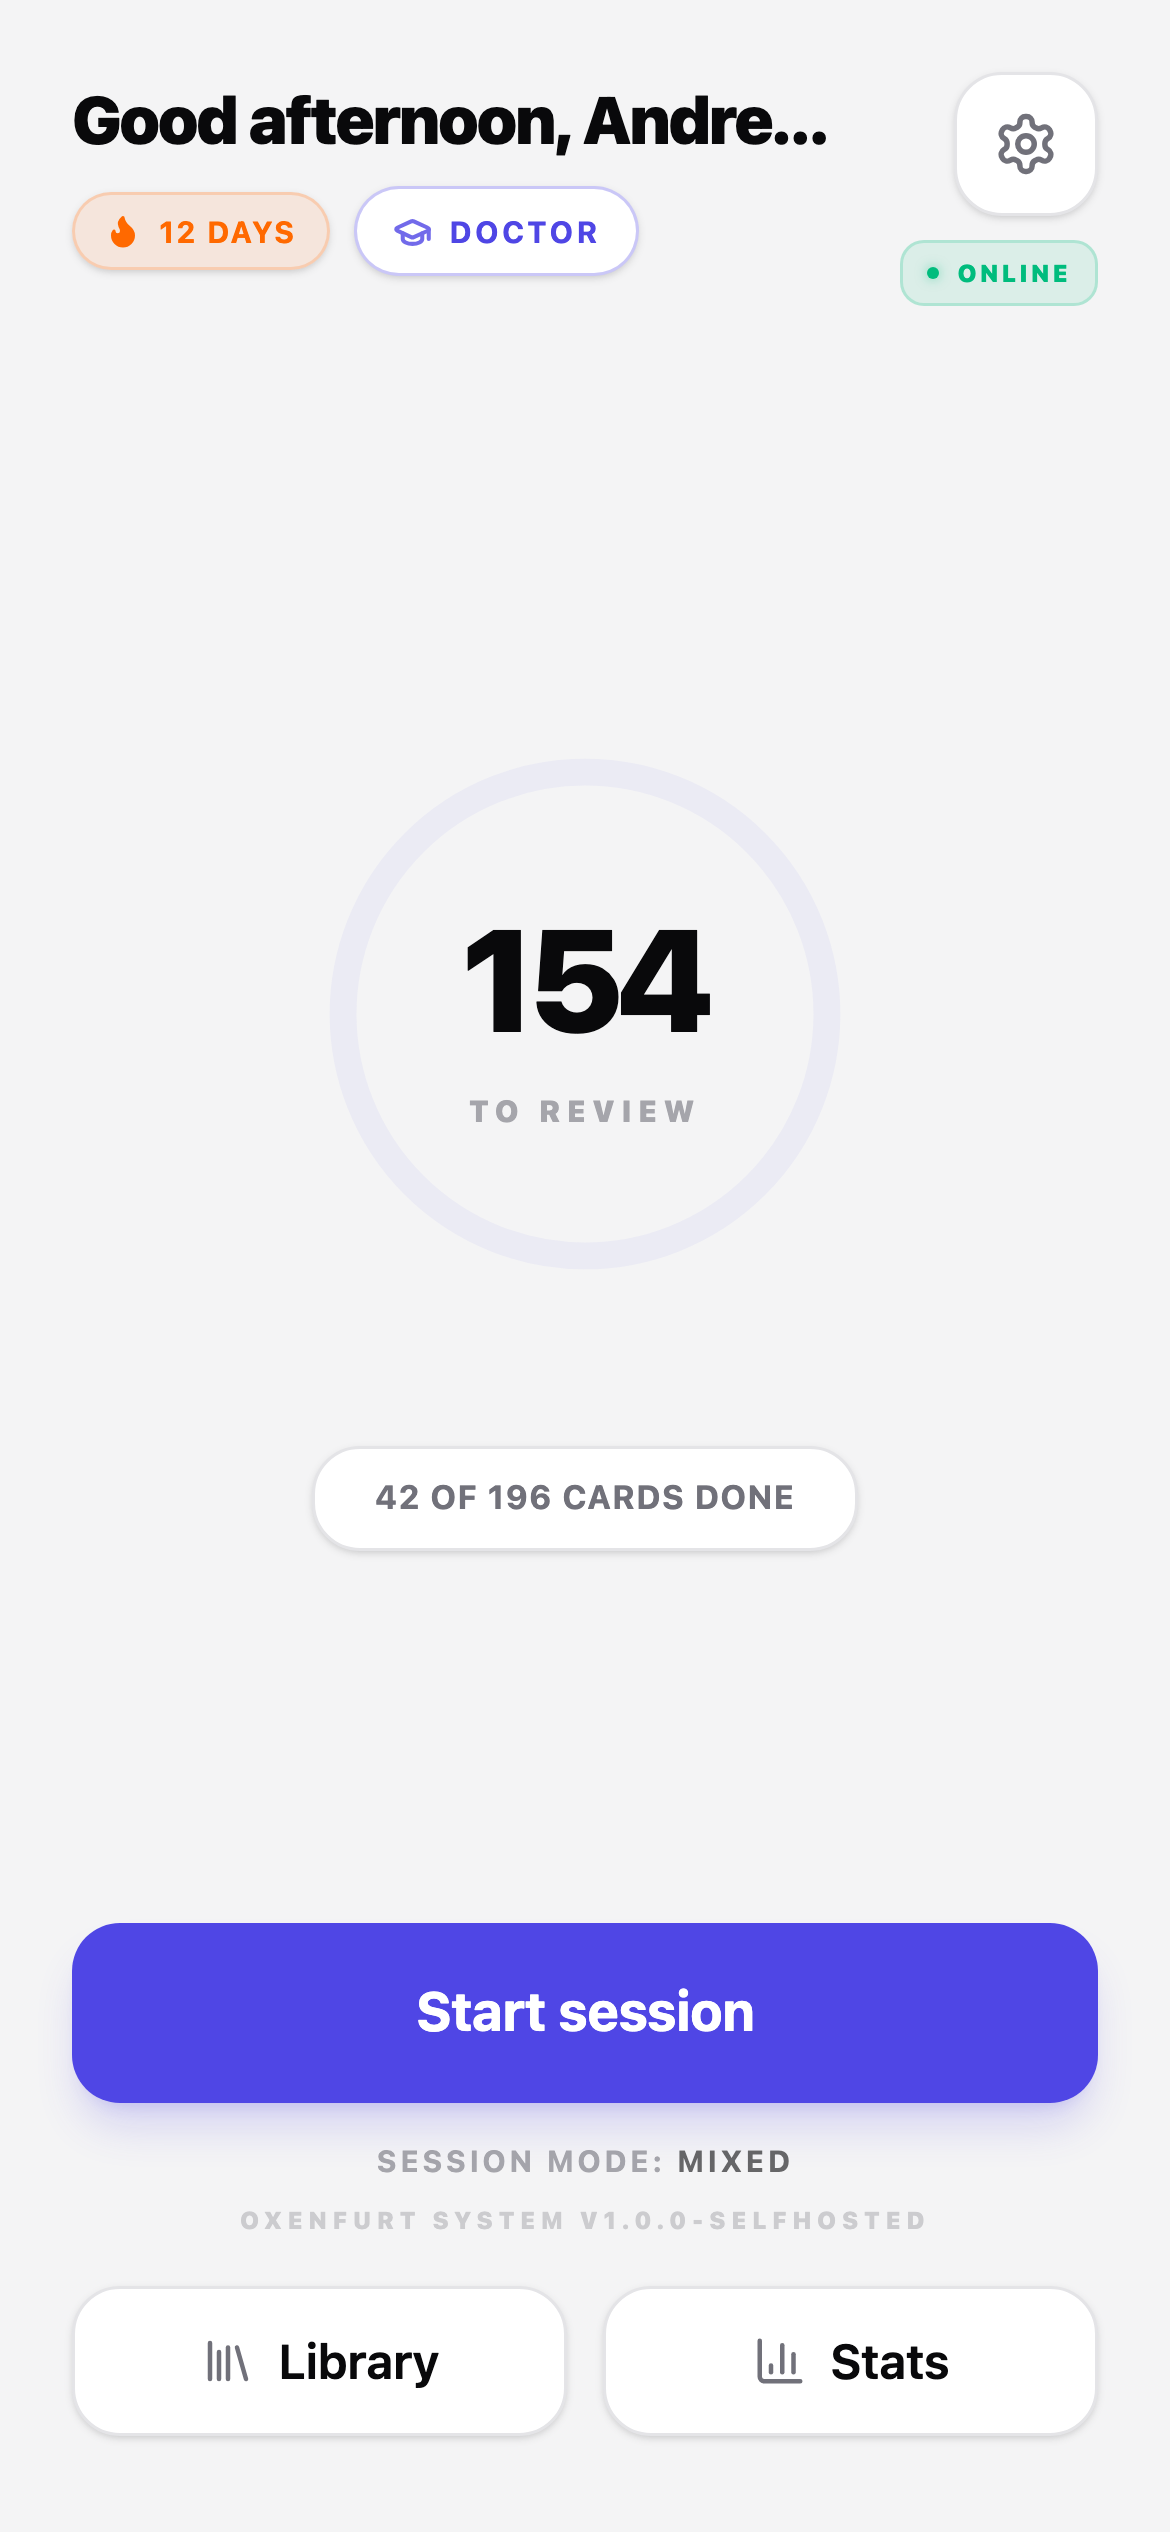
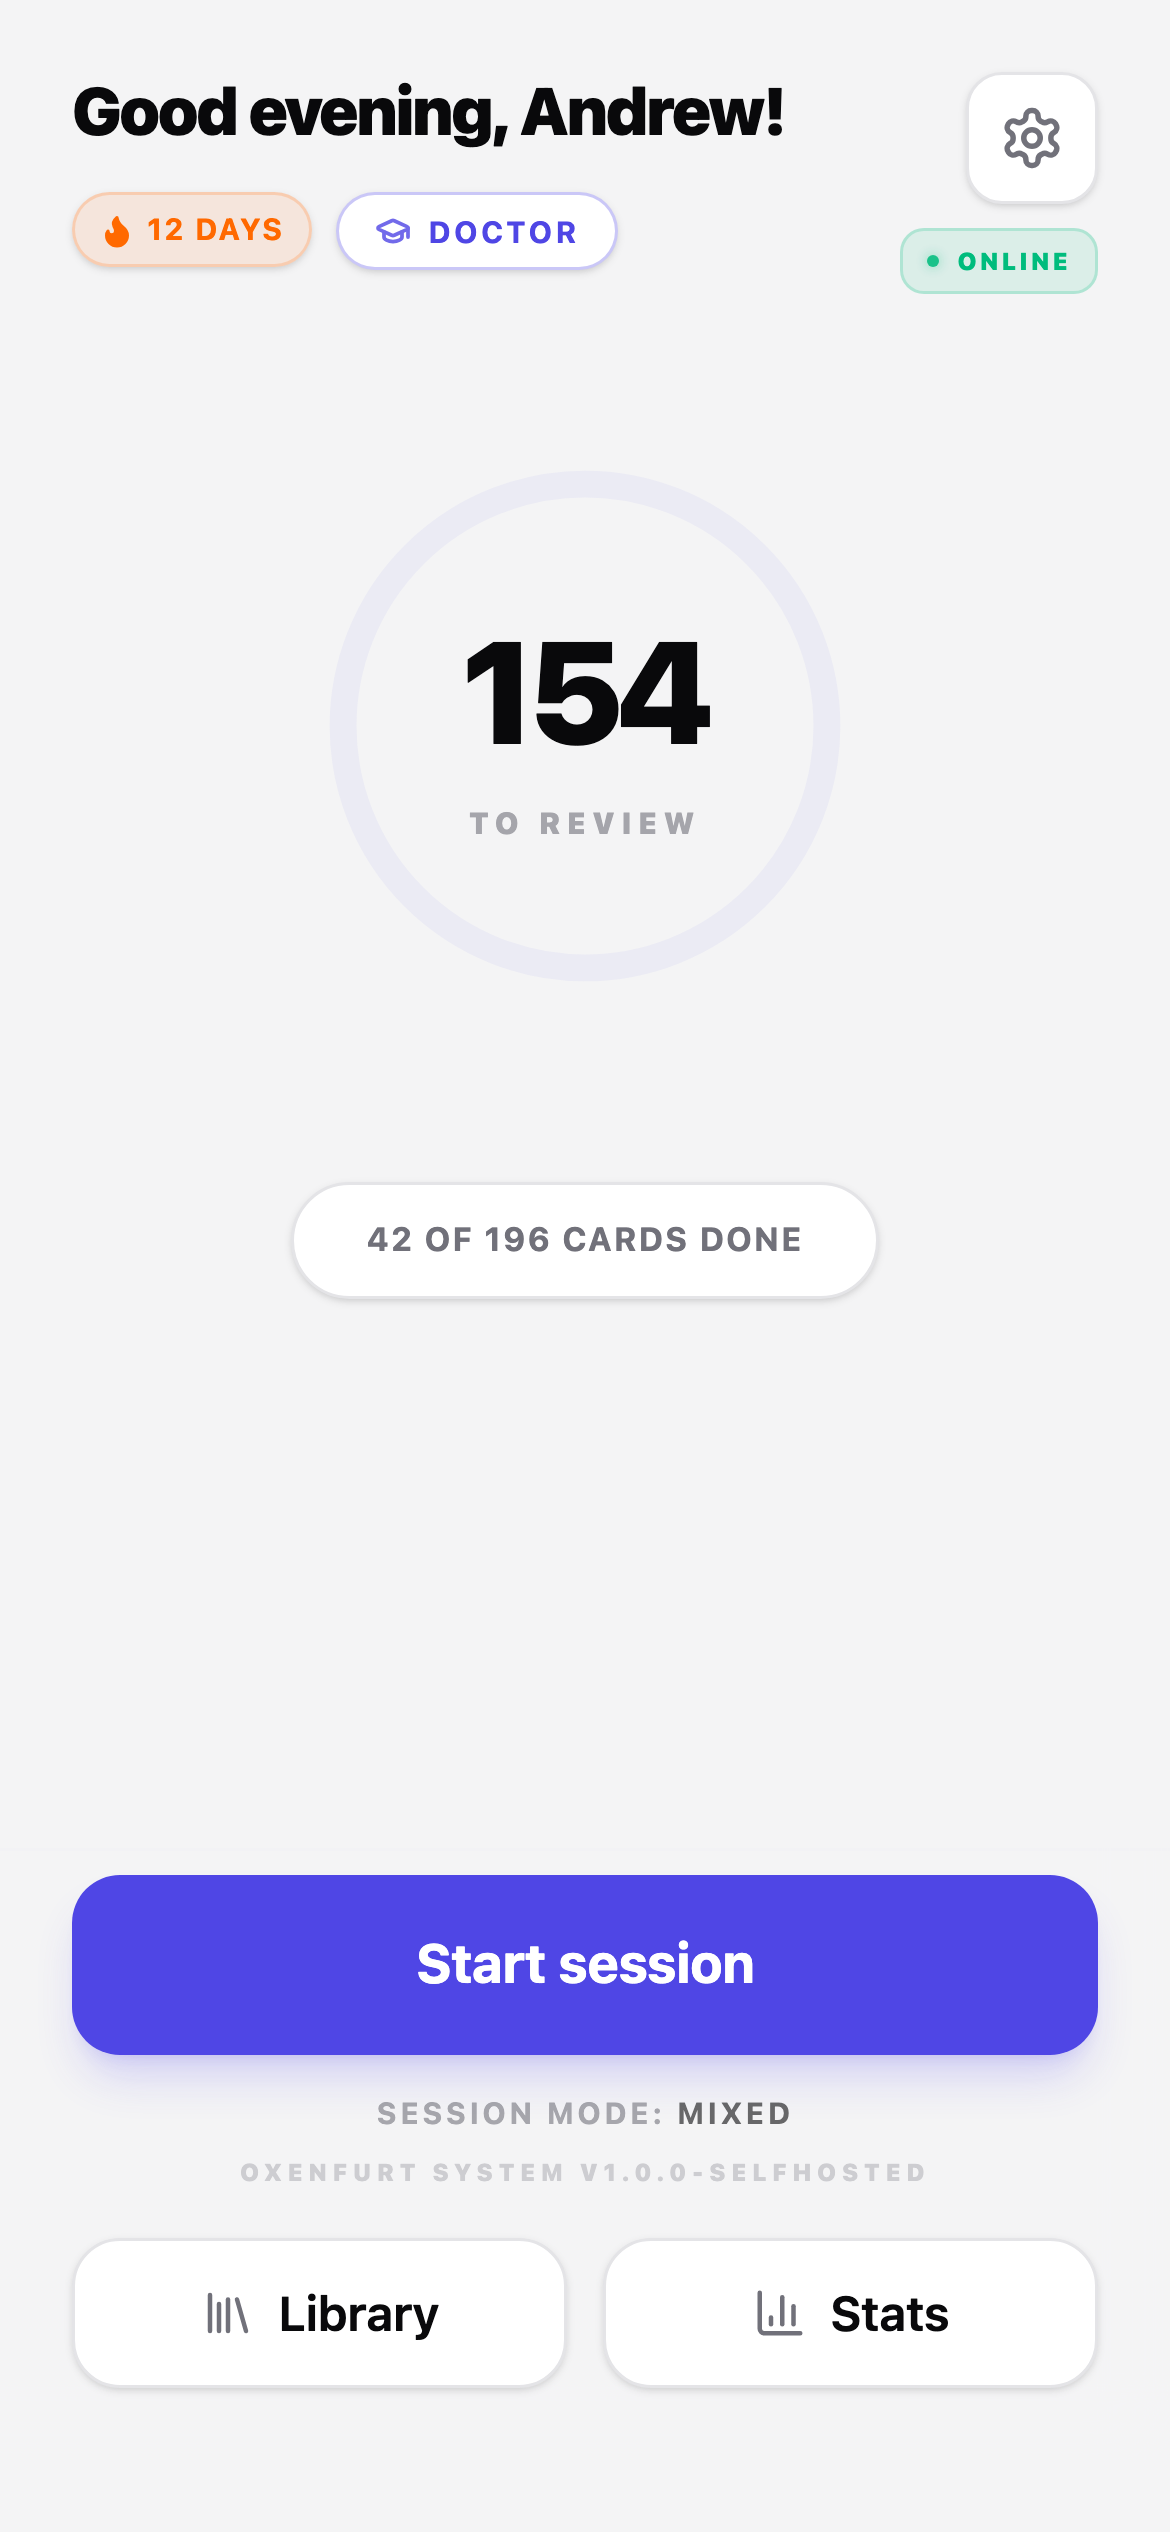
fix: final home screen layout stabilization and verified screenshots

diff --git a/apps/mini-app/src/components/Home.tsx b/apps/mini-app/src/components/Home.tsx
@@ -54,7 +54,6 @@ export function Home({ onStart, onOpenLibrary, onOpenStats, onOpenAnswers, userF
   const { settings } = useSettings();
   const t = useT();
 
-  // Listen for hash changes to open settings
   useEffect(() => {
     const h = () => setIsSettingsOpen(window.location.hash === '#settings')
     window.addEventListener('hashchange', h)
@@ -120,7 +119,6 @@ export function Home({ onStart, onOpenLibrary, onOpenStats, onOpenAnswers, userF
   const due = stats?.dueCount ?? 0;
   const reviewed = stats?.reviewedToday ?? 0;
   const totalForToday = due + reviewed;
-  
   const progressPercent = totalForToday > 0 ? (reviewed / totalForToday) * 100 : (reviewed > 0 ? 100 : 0);
   
   const radius = 72;
@@ -151,32 +149,28 @@ export function Home({ onStart, onOpenLibrary, onOpenStats, onOpenAnswers, userF
 
   return (
     <div
-      className="flex-1 flex flex-col bg-app-bg text-app-text relative overflow-hidden"
+      className="flex-1 flex flex-col bg-app-bg text-app-text relative overflow-hidden h-full"
       style={{
         paddingTop: `calc(1.5rem + var(--tg-safe-area-inset-top, 0px))`,
         paddingBottom: `calc(1.5rem + var(--tg-safe-area-inset-bottom, 0px))`,
       }}
     >
-      <div className="flex-1 overflow-y-auto px-6 no-scrollbar flex flex-col pb-4">
-        {/* Header */}
-        <div className="flex justify-between items-start z-10 relative text-app-text gap-3 mb-8">
-          <div className="flex-1 min-w-0 pt-1">
-            <h1 className="text-[22px] font-black tracking-tight leading-[1.1] truncate pr-2">
+      {/* 1. Header (Clean Grid) */}
+      <header className="px-6 shrink-0 z-20 pb-2">
+        <div className="flex justify-between items-start">
+          <div className="min-w-0 pr-4">
+            <h1 className="text-[22px] font-black tracking-tight leading-tight truncate mb-3">
               {getGreeting(t, userFirstName)}
             </h1>
-            <div className="flex items-center gap-2 mt-2.5 flex-wrap">
+            <div className="flex items-center gap-2 flex-wrap">
                {stats && stats.streak > 0 && (
-                 <motion.div 
-                   animate={due === 0 && reviewed > 0 ? { filter: ['drop-shadow(0 0 2px #f97316)', 'drop-shadow(0 0 8px #f97316)', 'drop-shadow(0 0 2px #f97316)'] } : {}}
-                   transition={{ duration: 2, repeat: Infinity }}
-                   className="flex items-center gap-1.5 text-orange-500 font-bold text-[10px] uppercase tracking-wider bg-orange-500/10 px-2.5 py-1.5 rounded-full border border-orange-500/20 shadow-sm"
-                 >
+                 <div className="flex items-center gap-1 text-orange-500 font-bold text-[10px] uppercase tracking-wider bg-orange-500/10 px-2 py-1 rounded-full border border-orange-500/20 shadow-sm">
                    <Flame size={12} fill="currentColor" />
-                   <span className="leading-none">{stats.streak} {t(plurKey(stats.streak, 'home.streak_one', 'home.streak_few', 'home.streak_many'))}</span>
-                 </motion.div>
+                   <span>{stats.streak} {t(plurKey(stats.streak, 'home.streak_one', 'home.streak_few', 'home.streak_many'))}</span>
+                 </div>
                )}
-               <div className="bg-app-surface text-app-primary px-3 py-1.5 rounded-full text-[10px] font-bold uppercase tracking-widest border border-app-primary/30 shadow-sm flex items-center gap-1.5 active:scale-95 transition-transform cursor-default h-[30px]">
-                 <GraduationCap size={13} strokeWidth={2.5} className="opacity-80" />
+               <div className="bg-app-surface text-app-primary px-3 py-1 rounded-full text-[10px] font-bold uppercase tracking-widest border border-app-primary/30 shadow-sm flex items-center gap-1.5 h-[26px]">
+                 <GraduationCap size={12} strokeWidth={2.5} className="opacity-80" />
                  <span className="leading-none">{getRank(t, stats?.learnedCount ?? 0)}</span>
                </div>
             </div>
@@ -185,24 +179,26 @@ export function Home({ onStart, onOpenLibrary, onOpenStats, onOpenAnswers, userF
           <div className="flex flex-col items-end gap-2 shrink-0">
             <button 
               onClick={() => setIsSettingsOpen(true)}
-              className="p-3 text-app-hint active:opacity-60 transition-opacity bg-app-surface border border-app-border rounded-2xl shadow-sm"
+              className="p-2.5 text-app-hint active:opacity-60 transition-opacity bg-app-surface border border-app-border rounded-xl shadow-sm"
               aria-label={t('home.aria_settings')}
             >
               <Settings size={22} />
             </button>
             <div className={`flex items-center gap-1.5 px-2 py-1 rounded-lg border text-[8px] font-black uppercase tracking-widest transition-colors ${
-              health?.ok 
-                ? 'bg-emerald-500/10 border-emerald-500/20 text-emerald-500' 
-                : 'bg-rose-500/10 border-rose-500/20 text-rose-500 animate-pulse'
+              health?.ok ? 'bg-emerald-500/10 border-emerald-500/20 text-emerald-500' : 'bg-rose-500/10 border-rose-500/20 text-rose-500 animate-pulse'
             }`}>
-              <span className={`w-1 h-1 rounded-full ${health?.ok ? 'bg-emerald-500 shadow-[0_0_4px_rgba(16,185,129,0.5)]' : 'bg-rose-500 shadow-[0_0_4px_rgba(244,63,94,0.5)]'} ${health?.ok ? 'animate-pulse' : ''}`} />
+              <span className={`w-1 h-1 rounded-full ${health?.ok ? 'bg-emerald-500 shadow-[0_0_4px_rgba(16,185,129,0.5)]' : 'bg-rose-500'} ${health?.ok ? 'animate-pulse' : ''}`} />
               {health?.ok ? t('home.backend_online') : t('home.backend_offline')}
             </div>
           </div>
         </div>
+      </header>
 
-        {/* Middle Section */}
-        <div className="flex-1 flex flex-col items-center justify-center gap-10 py-4 min-h-0">
+      {/* 2. Scrollable Body (Simple Stack) */}
+      <div className="flex-1 overflow-y-auto px-6 no-scrollbar">
+        <div className="flex flex-col items-center py-6 space-y-10 pb-20">
+          
+          {/* Progress Ring Container */}
           <div className="relative w-56 h-56 flex items-center justify-center shrink-0">
             <svg className="absolute inset-0 w-full h-full -rotate-90" viewBox="0 0 200 200">
               <circle cx="100" cy="100" r={radius} stroke="currentColor" strokeWidth="8" fill="transparent" className="text-app-primary/5" />
@@ -229,7 +225,7 @@ export function Home({ onStart, onOpenLibrary, onOpenStats, onOpenAnswers, userF
                 </motion.div>
               ) : (
                 <>
-                  <span className="text-5xl">📚</span>
+                  <span className="text-5xl opacity-20">📚</span>
                   <div className="h-4 flex items-center mt-4">
                     <span className="text-[10px] font-black uppercase tracking-[0.2em] text-app-hint text-center opacity-60 leading-none">{t('home.ring_empty')}</span>
                   </div>
@@ -238,43 +234,43 @@ export function Home({ onStart, onOpenLibrary, onOpenStats, onOpenAnswers, userF
             </div>
           </div>
 
-          <div className="flex flex-col items-center gap-8 w-full max-w-[280px]">
-            <div className="bg-app-surface px-5 py-2 rounded-2xl border border-app-border shadow-sm">
-              <p className="text-app-hint text-center text-[11px] font-bold uppercase tracking-wide">
-                {totalForToday === 0 ? t('home.no_due') : due === 0 ? t('home.progress_done_excellent', { reviewed }) : t('home.progress_in_progress', { reviewed, total: totalForToday })}
-              </p>
-            </div>
+          {/* Progress Banner */}
+          <div className="bg-app-surface px-6 py-2.5 rounded-full border border-app-border shadow-sm shrink-0">
+            <p className="text-app-hint text-center text-[11px] font-bold uppercase tracking-wider">
+              {totalForToday === 0 ? t('home.no_due') : due === 0 ? t('home.progress_done_excellent', { reviewed }) : t('home.progress_in_progress', { reviewed, total: totalForToday })}
+            </p>
+          </div>
 
-            {heatmapData && heatmapData.history.length > 0 && (
-              <div className="w-full">
-                 <h2 className="text-[10px] uppercase tracking-[0.15em] text-app-hint font-bold mb-3 text-center opacity-40">{t('home.history_heading')}</h2>
-                 <CompactHeatmap history={heatmapData.history} />
+          {/* Heatmap Area */}
+          {heatmapData && heatmapData.history.length > 0 && (
+            <div className="w-full shrink-0">
+               <h2 className="text-[10px] uppercase tracking-[0.15em] text-app-hint font-bold mb-4 text-center opacity-40">{t('home.history_heading')}</h2>
+               <CompactHeatmap history={heatmapData.history} />
+            </div>
+          )}
+
+          {/* Notifications (Flow naturally at end) */}
+          <div className="flex flex-col gap-3 w-full max-w-[340px] shrink-0">
+            {unreadCount > 0 && (
+              <button onClick={onOpenAnswers} className="flex items-center gap-3 bg-app-primary/10 border border-app-primary/20 rounded-2xl px-4 py-3.5 text-sm active:scale-[0.98] transition-transform shadow-sm">
+                <span className="flex-1 text-app-text text-left text-[11px] font-bold tracking-tight">
+                  🤖 {t('home.agent_answered', { count: unreadCount, plural: t(plurKey(unreadCount, 'home.agent_answered_plural_one', 'home.agent_answered_plural_few', 'home.agent_answered_plural_many')) })}
+                </span>
+                <ChevronDown size={14} className="-rotate-90 text-app-primary" />
+              </button>
+            )}
+            {pausedSession && (
+              <div className="flex items-center gap-3 bg-amber-500/10 border border-amber-500/20 rounded-2xl px-4 py-3.5 text-[11px] shadow-sm">
+                <span className="flex-1 text-app-text font-bold tracking-tight">{t('home.paused_pill', { current: pausedSession.currentIndex, total: pausedSession.cards.length })}</span>
+                <button onClick={handleDiscardPaused} className="text-app-hint font-black uppercase tracking-tighter underline underline-offset-4 active:opacity-60 text-[10px]">{t('common.discard')}</button>
               </div>
             )}
           </div>
         </div>
-
-        {/* Notifications */}
-        <div className="flex flex-col gap-3 w-full mt-6">
-          {unreadCount > 0 && (
-            <button onClick={onOpenAnswers} className="flex items-center gap-2 bg-app-primary/10 border border-app-primary/30 rounded-2xl px-3 py-2 text-sm active:scale-[0.98] transition-transform">
-              <span className="flex-1 text-app-text text-left text-[11px] font-semibold">
-                🤖 {t('home.agent_answered', { count: unreadCount, plural: t(plurKey(unreadCount, 'home.agent_answered_plural_one', 'home.agent_answered_plural_few', 'home.agent_answered_plural_many')) })}
-              </span>
-              <ChevronDown size={14} className="-rotate-90 text-app-primary" />
-            </button>
-          )}
-          {pausedSession && (
-            <div className="flex items-center gap-2 bg-amber-500/10 border border-amber-500/30 rounded-2xl px-3 py-2 text-[11px]">
-              <span className="flex-1 text-app-text font-medium">{t('home.paused_pill', { current: pausedSession.currentIndex, total: pausedSession.cards.length })}</span>
-              <button onClick={handleDiscardPaused} className="text-app-hint font-bold uppercase tracking-tighter underline underline-offset-2 active:opacity-60">{t('common.discard')}</button>
-            </div>
-          )}
-        </div>
       </div>
 
-      {/* Footer */}
-      <div className="shrink-0 flex flex-col gap-3 relative z-10 px-6 pt-2 bg-app-bg/80 backdrop-blur-md border-t border-app-border/10 pb-4">
+      {/* 3. Fixed Footer Actions */}
+      <footer className="shrink-0 flex flex-col gap-3 relative z-10 px-6 pt-2 bg-app-bg/95 backdrop-blur-md border-t border-app-border/10 pb-6">
         <div className="relative">
           <button
             className="w-full bg-app-primary text-app-primary-text py-4 rounded-2xl font-bold text-lg active:scale-95 transition-transform shadow-lg shadow-app-primary/20"
@@ -300,7 +296,7 @@ export function Home({ onStart, onOpenLibrary, onOpenStats, onOpenAnswers, userF
             <BarChart3 size={18} className="text-app-hint" /> {t('home.btn_stats')}
           </button>
         </div>
-      </div>
+      </footer>
 
       <SettingsSheet isOpen={isSettingsOpen} onClose={() => setIsSettingsOpen(false)} currentMode={mode} onModeChange={(m) => setMode(m)} />
     </div>
